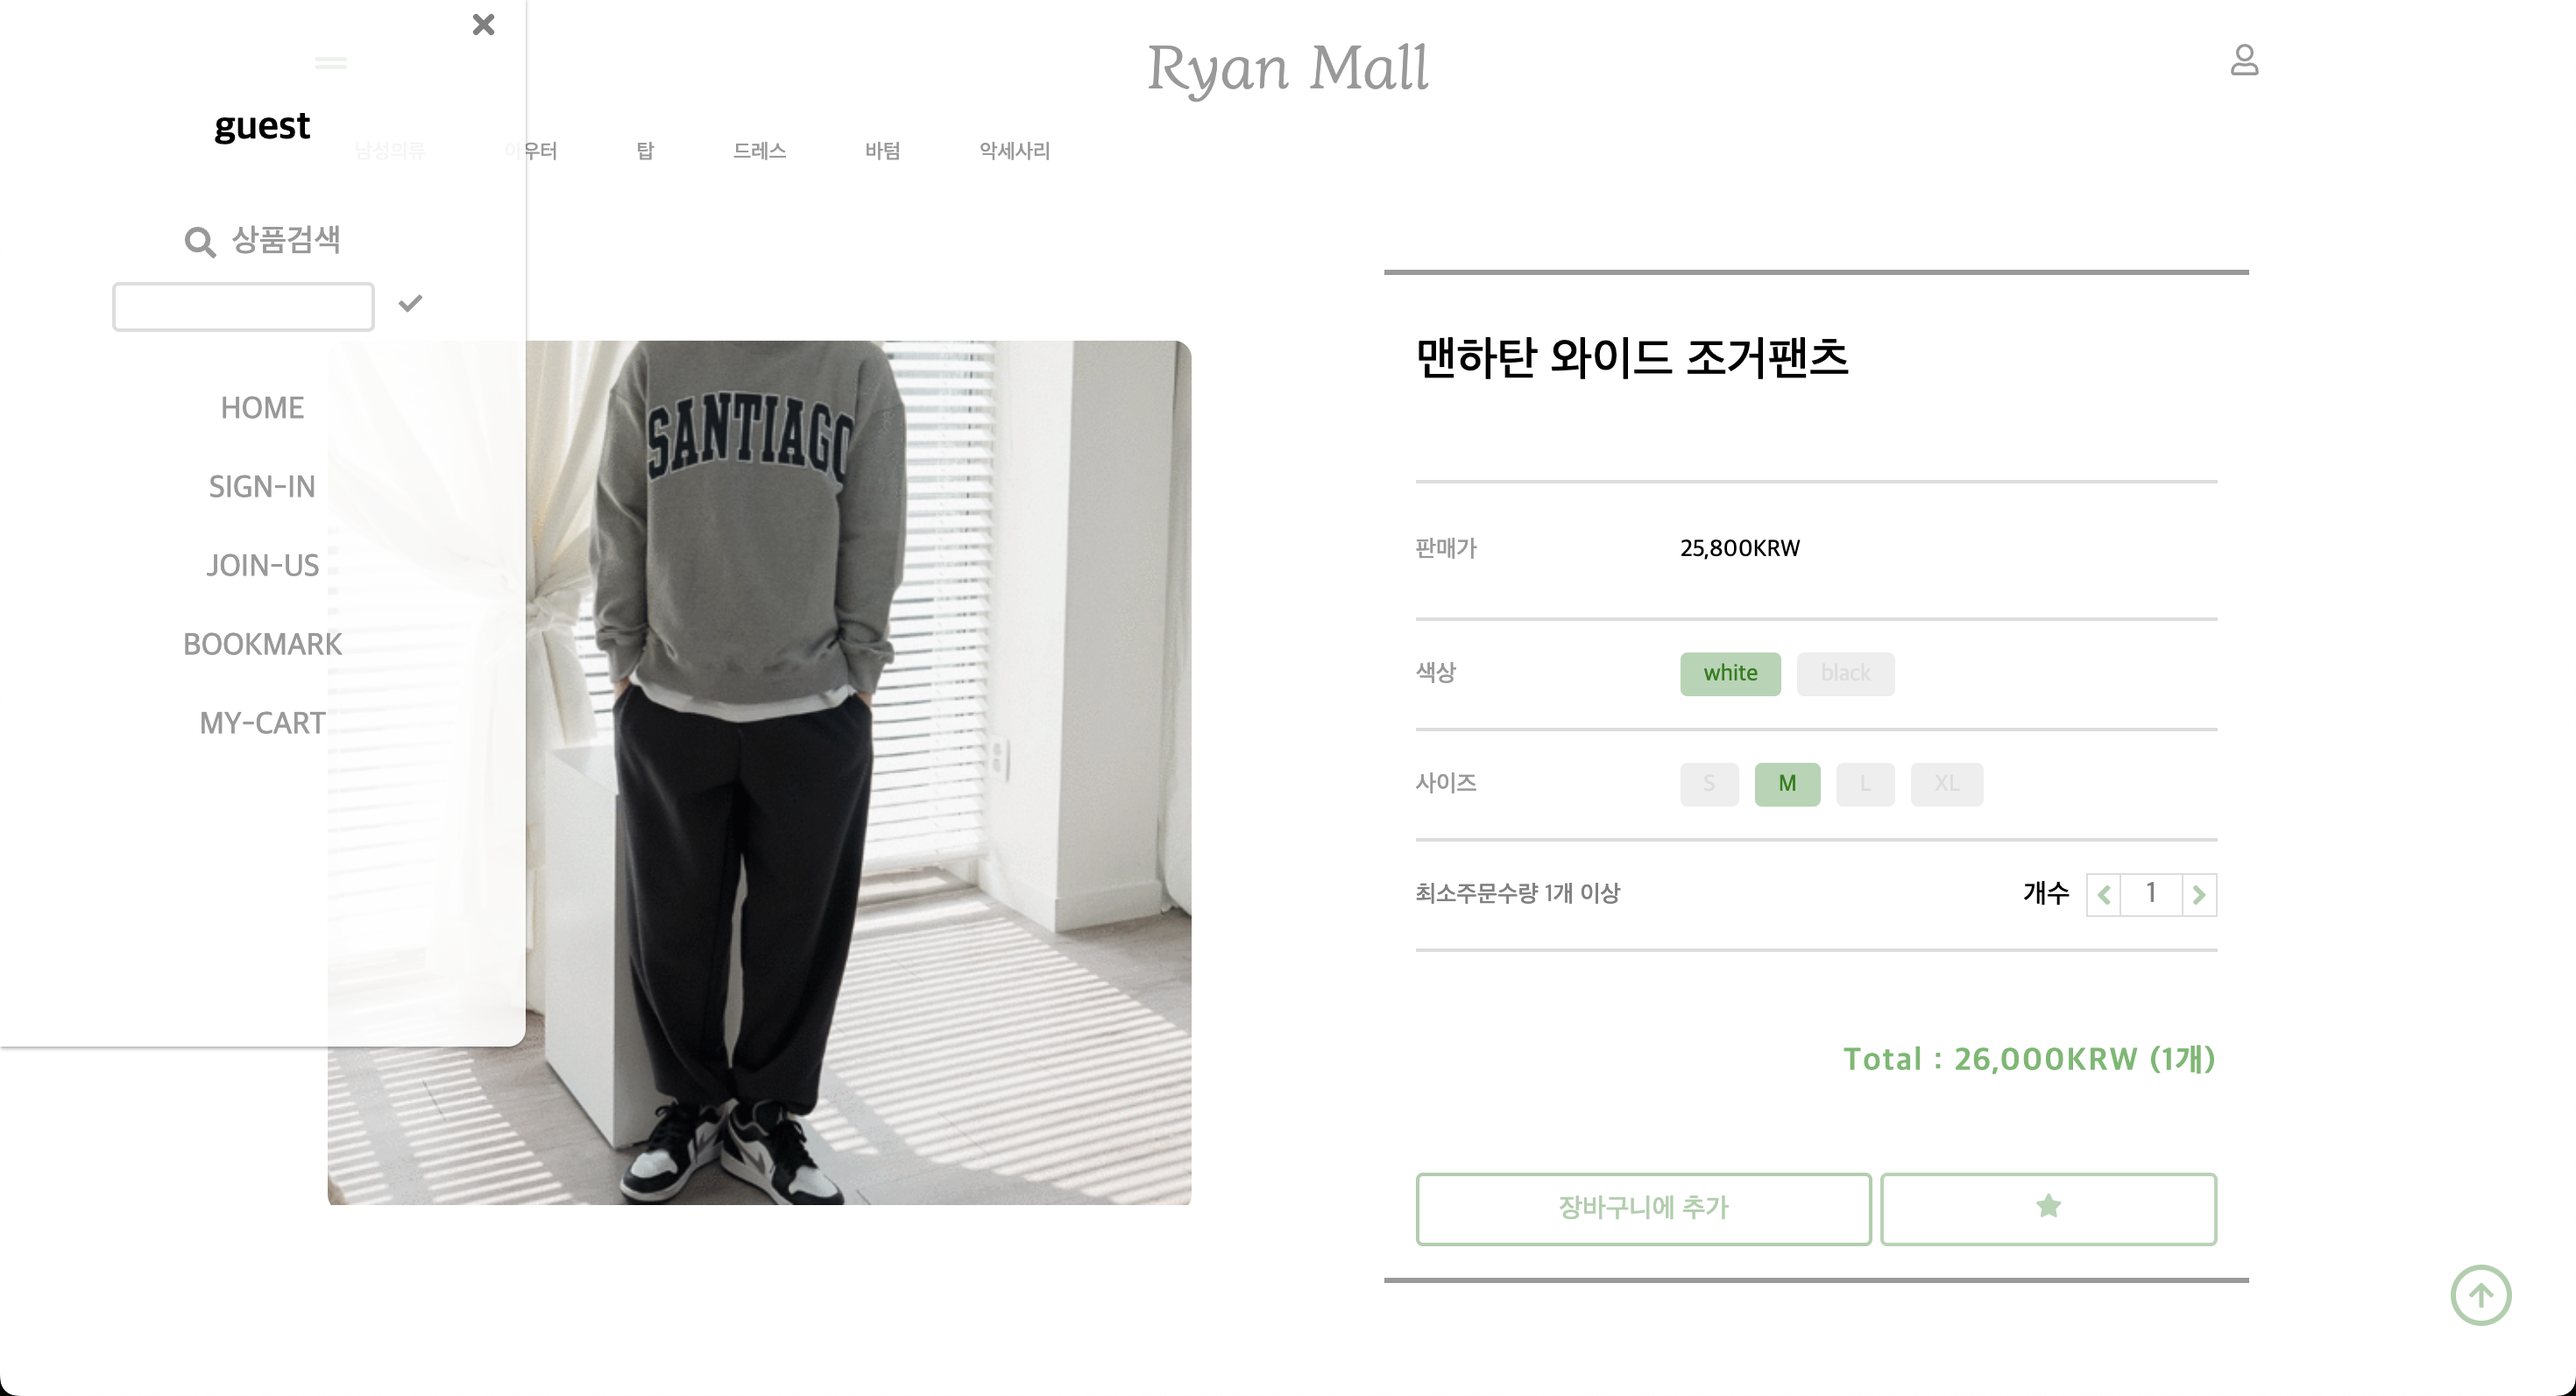
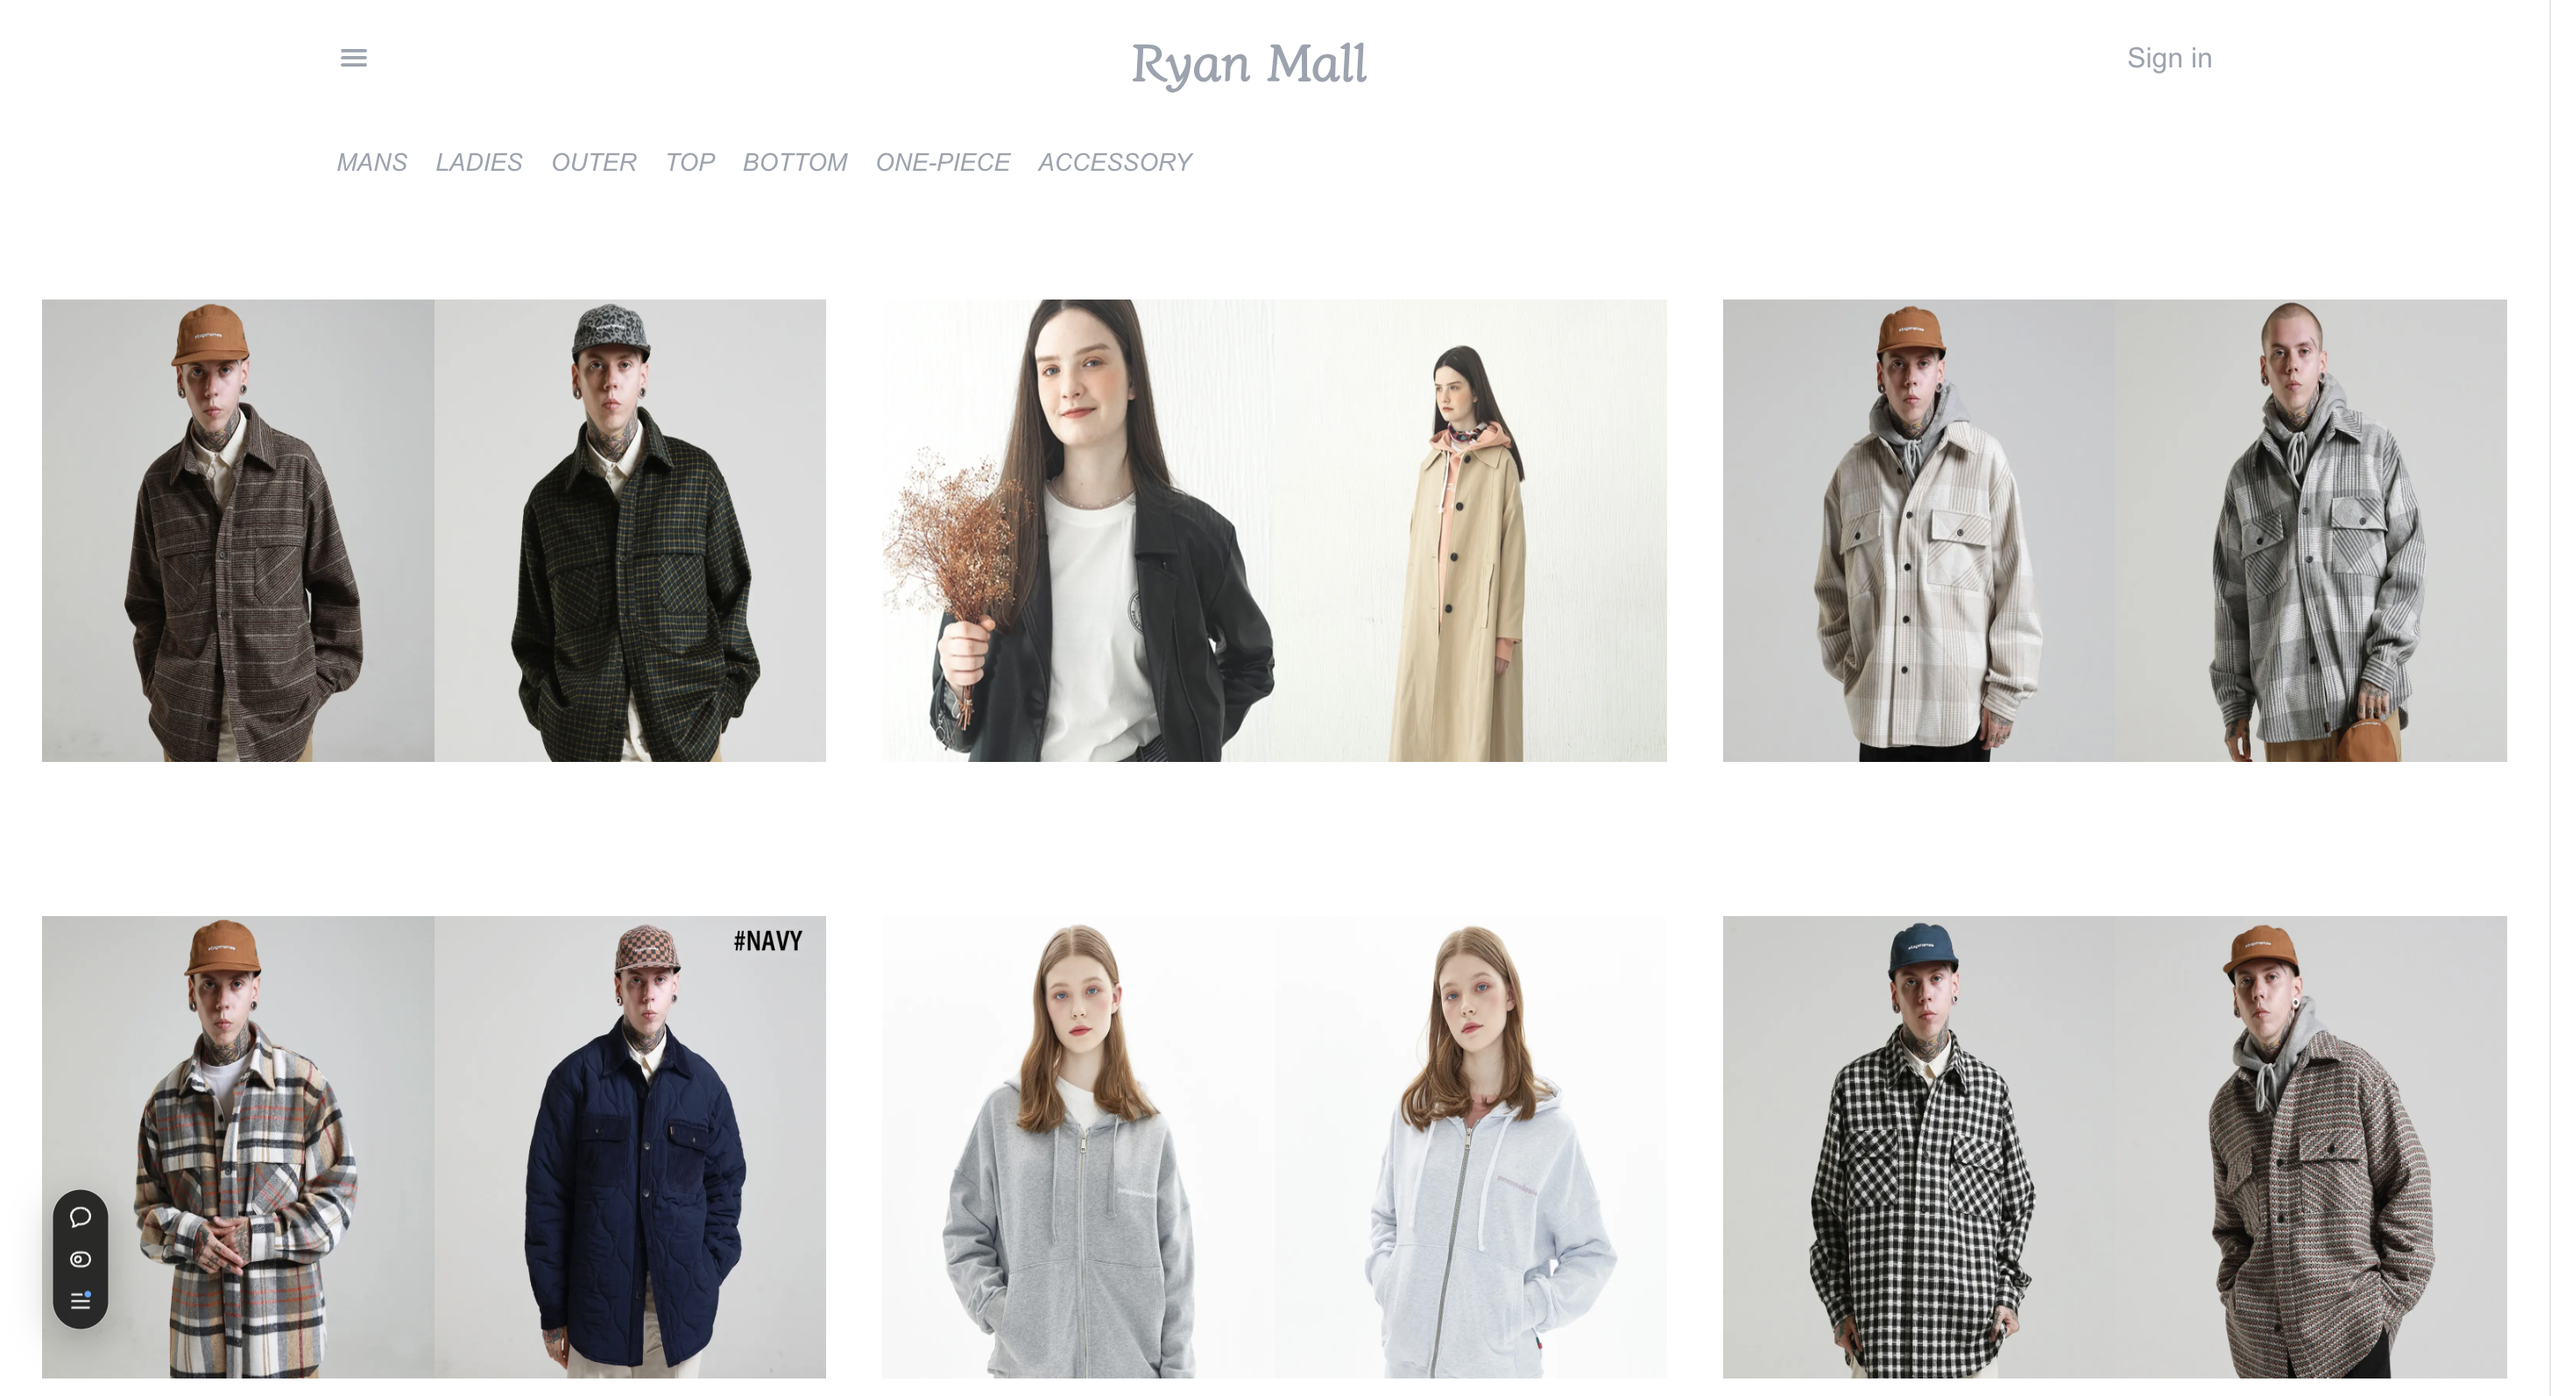
[Update] 필요없는 이미지 제거 & 중복 프로젝트 제거 & 프로젝트 순서 조정

diff --git a/src/data/projects.ts b/src/data/projects.ts
@@ -8,8 +8,6 @@ import calculator from '@/Images/projects/simple-calculator.png';
 import weather from '@/Images/projects/weather-app.png';
 import youtube from '@/Images/projects/youtube-clone.png';
 import w3c_fashion from '@/Images/projects/w3c-fashion.png';
-import coin_tracker from '@/Images/projects/coin-tracker.png';
-import ryanflix from '@/Images/projects/ryanflix.png';
 import habit from '@/Images/projects/66days.png';
 import owl from '@/Images/projects/owltastic.png';
 import toyota from '@/Images/projects/toyota_home.png';
@@ -19,7 +17,6 @@ import ryan_shop from '@/Images/projects/ryan-shop.png';
 import food_info from '@/Images/projects/food-info.png';
 import book_search from '@/Images/projects/book-search.png';
 import ryanflix_next from '@/Images/projects/ryanflix-next.png';
-import guestbook from '@/Images/projects/geustbook.png';
 import kanban from '@/Images/projects/kanban.png';
 import next_coin_tracker from '@/Images/projects/next-crypto.png';
 import { StaticImageData } from 'next/image';
@@ -192,59 +189,48 @@ export const projects = [
   },
   {
     id: 15,
-    title: 'GuestBook',
-    github_link: 'https://github.com/mediumryan/guestbook',
-    tag: ['Next', 'TS', 'MySQL'],
-    url_link: 'https://guestbook-liard-two.vercel.app/',
-    image_path: guestbook,
-    type: 'self_made',
-    description: 'Next.jsとMySQLを使用したゲストブックアプリです。',
-  },
-  {
-    id: 16,
     title: 'Kakao Simple EC Site',
     github_link: 'https://github.com/mediumryan/kakao-shop-demo',
-    tag: ['React'],
+    tag: ['React', 'EC'],
     url_link: 'https://mediumryan.github.io/kakao-shop-demo/',
     image_path: kakao_shop,
     type: 'self_made',
     description: 'シンプルなECサイトです。',
   },
   {
+    id: 16,
+    title: 'KanBan Board',
+    github_link: 'https://github.com/mediumryan/kanban-board',
+    tag: ['React', 'TS', 'ToDo'],
+    url_link: 'https://mediumryan.github.io/kanban-board/',
+    image_path: kanban,
+    type: 'self_made',
+    description: 'react-beautiful-dndを活用したKanbanボードアプリです。',
+  },
+  {
     id: 17,
-    title: 'Coin Tracker',
-    github_link: 'https://github.com/mediumryan/crypto_tracker',
-    tag: ['React'],
-    url_link: 'https://mediumryan.github.io/crypto_tracker',
-    image_path: coin_tracker,
+    title: 'Ryan Momentum',
+    github_link: 'https://github.com/mediumryan/ryan_momentum',
+    tag: ['React', 'OpenWeatherMap', 'ToDo'],
+    url_link: 'https://mediumryan.github.io/ryan_momentum/',
+    image_path: momentum,
     type: 'self_made',
     description:
-      '最大1,000種類の仮想通貨情報をグラフや数字で表示するトラッカーアプリです。',
+      "Chromeのイクステンション'Momentum'よりインスピレーションを得たアプリです。",
   },
   {
     id: 18,
-    title: 'Ryan Fashion Store',
-    github_link: 'https://github.com/mediumryan/ryan-shopping',
-    tag: ['React'],
-    url_link: 'https://mediumryan.github.io/ryan-shopping/',
-    image_path: ryan_shop,
+    title: 'Coin Tracker',
+    github_link: 'https://github.com/mediumryan/next_crypto_tracker',
+    tag: ['Next', 'TS', 'CoinGecko'],
+    url_link: 'https://crypto-tracker-nine-chi.vercel.app/',
+    image_path: next_coin_tracker,
     type: 'self_made',
-    description: '個人ECサイトを作ってみました。（Front Side only）',
+    description: 'Next.jsとcoingecko apiを活用したトラッカーアプリです。',
   },
   {
     id: 19,
     title: 'Ryanflix',
-    github_link: 'https://github.com/mediumryan/ryanflix',
-    tag: ['React', 'TMDB'],
-    url_link: 'https://mediumryan.github.io/ryanflix',
-    image_path: ryanflix,
-    type: 'self_made',
-    description:
-      'ネットフリックスよりインスピレーションを得たメデイア作品の紹介アプリです。',
-  },
-  {
-    id: 20,
-    title: 'Ryanflix(Next.js)',
     github_link: 'https://github.com/mediumryan/ryanflix',
     tag: ['Next', 'TS', 'TMDB'],
     url_link: 'https://ryanflix-pink.vercel.app/',
@@ -254,34 +240,13 @@ export const projects = [
       'ネットフリックスよりインスピレーションを得たメデイア作品の紹介アプリです。',
   },
   {
-    id: 21,
-    title: 'Coin Tracker(Next.js)',
-    github_link: 'https://github.com/mediumryan/next_crypto_tracker',
-    tag: ['Next', 'TS', 'CoinGecko'],
-    url_link: 'https://crypto-tracker-nine-chi.vercel.app/',
-    image_path: next_coin_tracker,
+    id: 20,
+    title: 'Ryan Fashion Store',
+    github_link: 'https://github.com/mediumryan/ryan-shopping',
+    tag: ['Next', 'TS', 'Supabase', 'EC'],
+    url_link: 'https://mediumryan.github.io/ryan-shopping/',
+    image_path: ryan_shop,
     type: 'self_made',
-    description: 'Next.jsとcoingecko apiを活用したトラッカーアプリです。',
-  },
-  {
-    id: 22,
-    title: 'Ryan Momentum',
-    github_link: 'https://github.com/mediumryan/ryan_momentum',
-    tag: ['React'],
-    url_link: 'https://mediumryan.github.io/ryan_momentum/',
-    image_path: momentum,
-    type: 'self_made',
-    description:
-      "Chromeのイクステンション'Momentum'よりインスピレーションを得たアプリです。",
-  },
-  {
-    id: 23,
-    title: 'KanBan Board',
-    github_link: 'https://github.com/mediumryan/kanban-board',
-    tag: ['React', 'TS'],
-    url_link: 'https://mediumryan.github.io/kanban-board/',
-    image_path: kanban,
-    type: 'self_made',
-    description: 'react-beautiful-dndを活用したKanbanボードアプリです。',
+    description: '個人ECサイトを作ってみました。',
   },
 ].reverse() as ProjectsType[];
